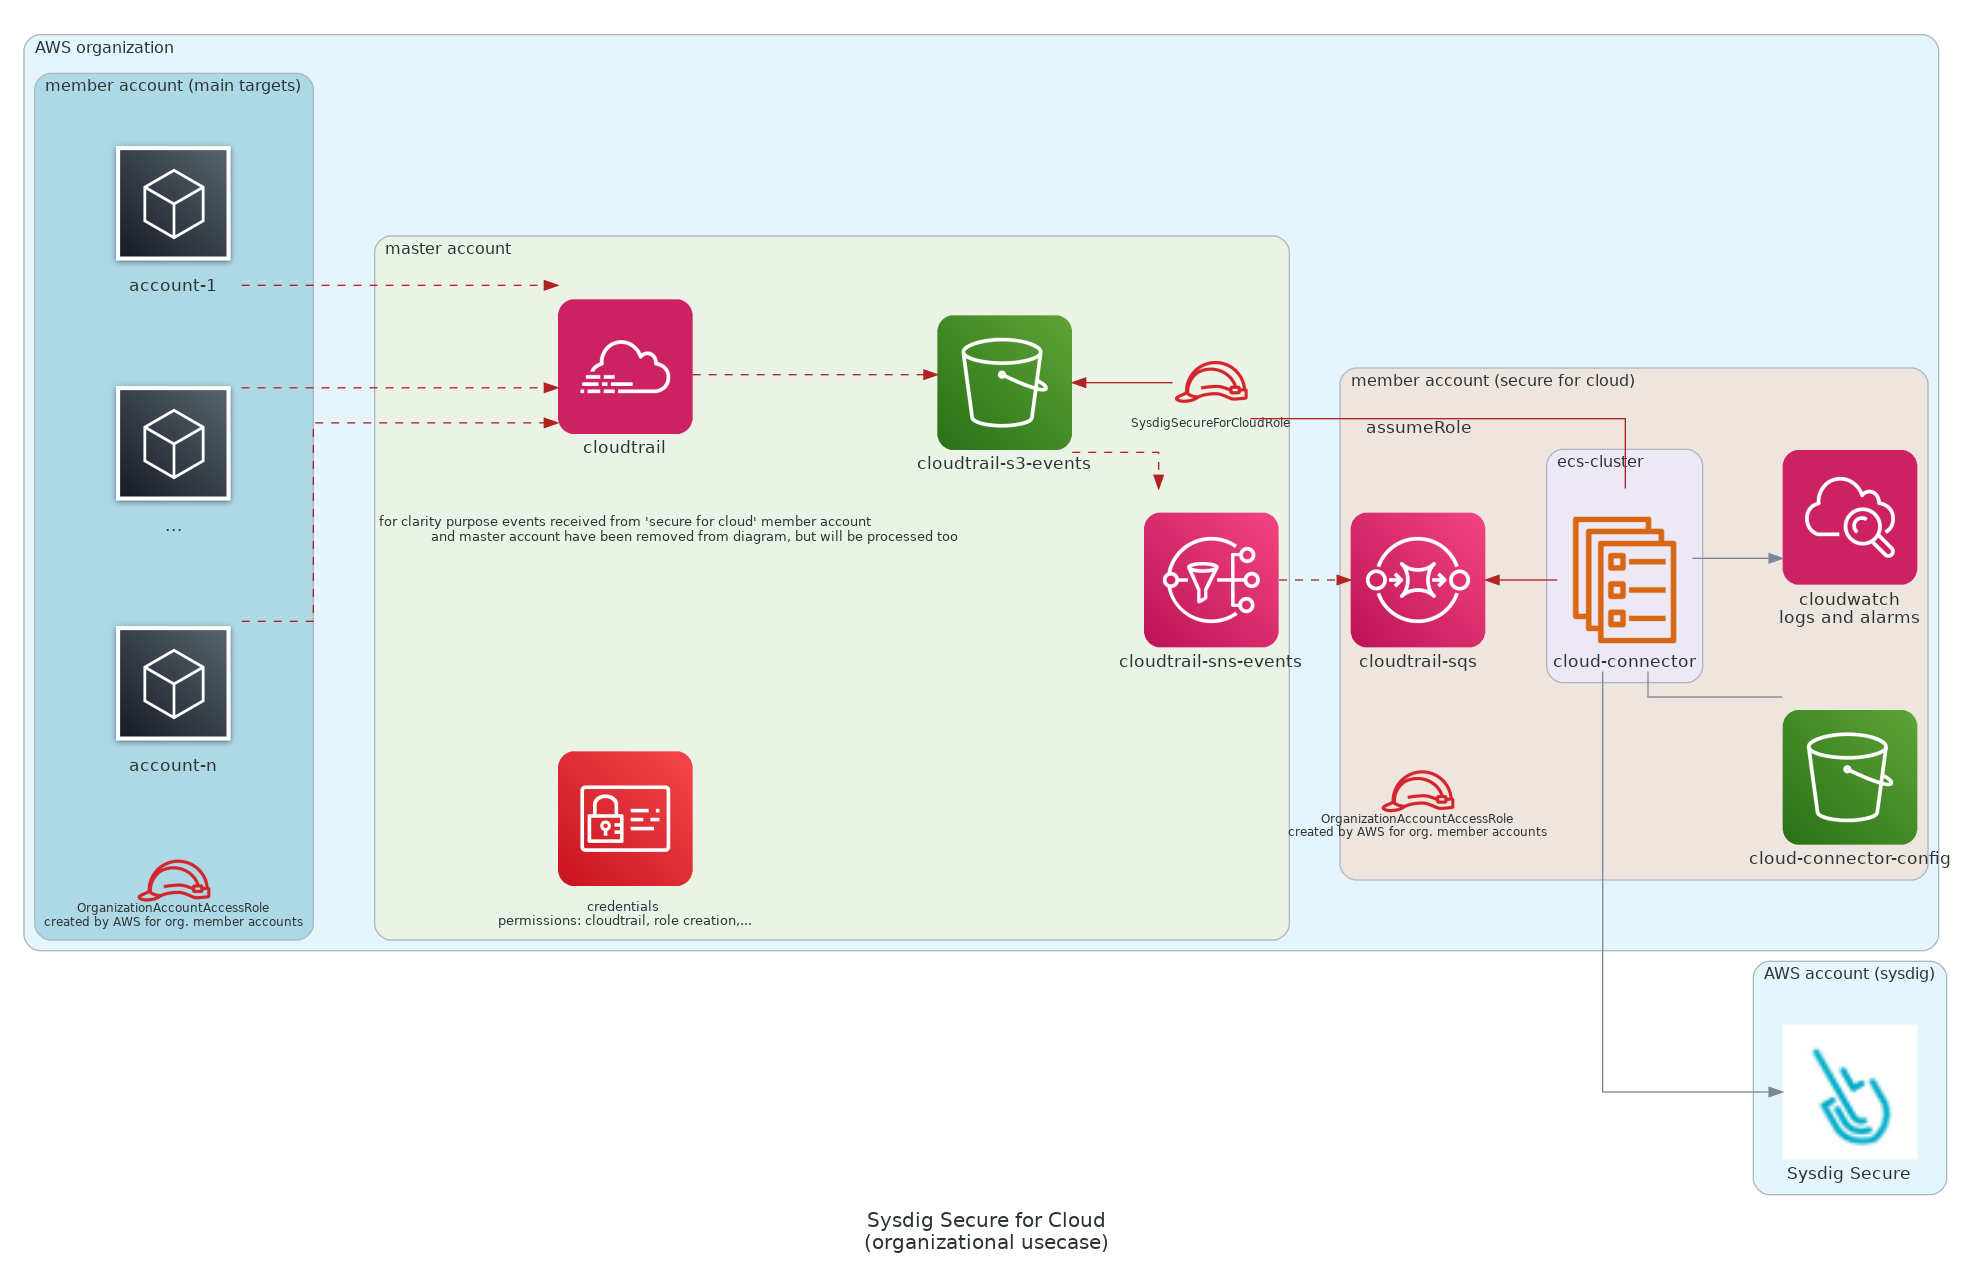
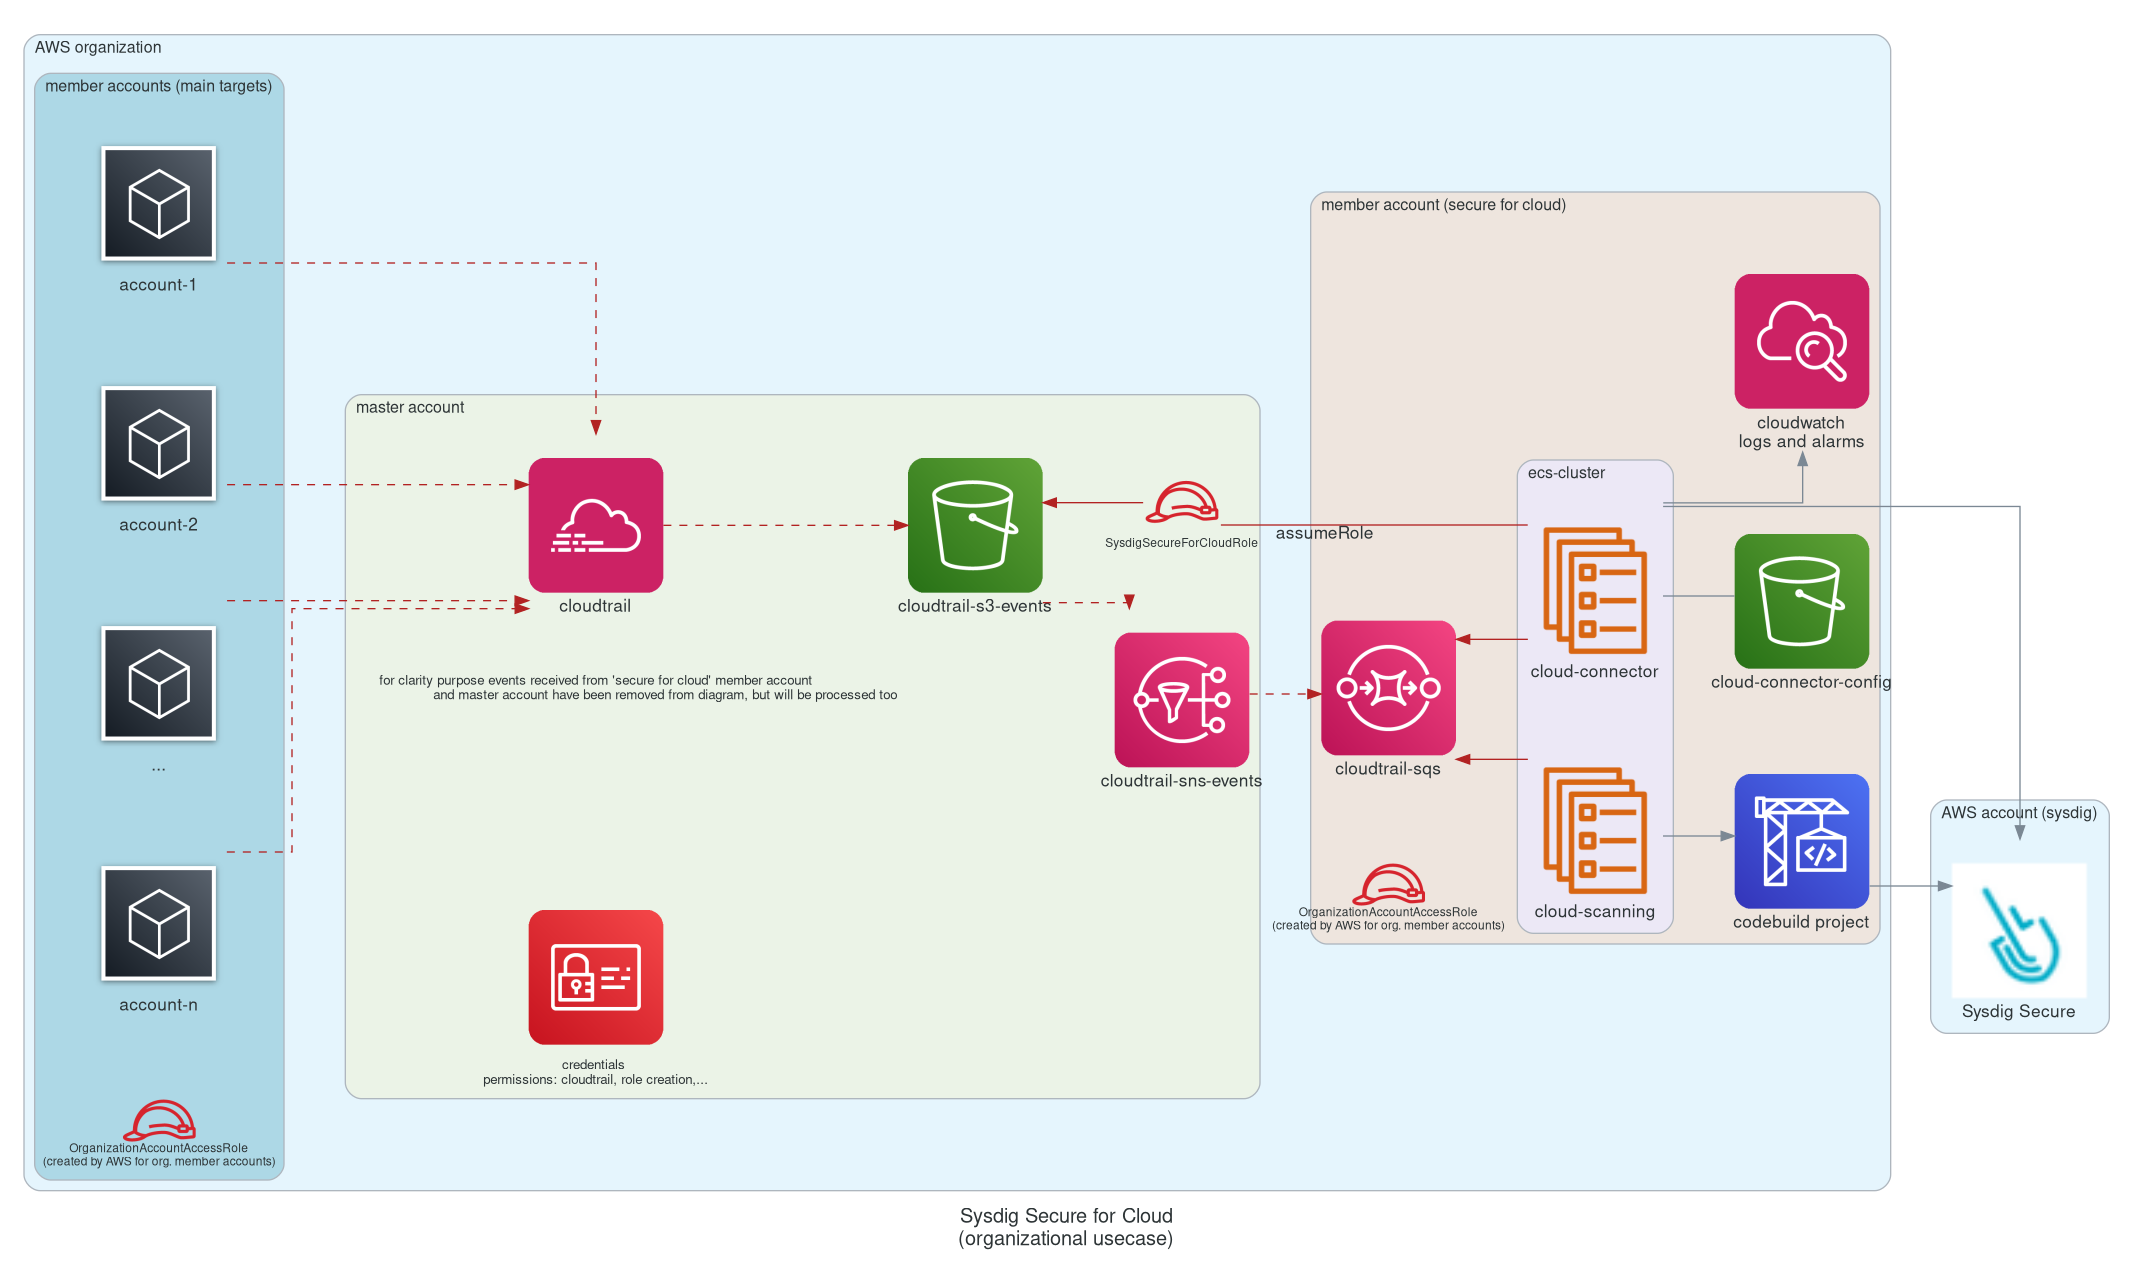
feat: Add organizational cloud-scanning (#20)
* feat: Add organizational cloud-scanning
* docs(organizational): Update documentation diagram

diff --git a/examples/organizational/diagram-org.py b/examples/organizational/diagram-org.py
@@ -1,15 +1,13 @@
 # diagrams as code vía https://diagrams.mingrammer.com
-from diagrams import Diagram, Cluster, Diagram, Edge, Node
-from diagrams.custom import Custom
-from diagrams.aws.general import General
-from diagrams.aws.management import Cloudtrail
-from diagrams.aws.storage import S3, SimpleStorageServiceS3Bucket
-from diagrams.aws.integration import SNS
-from diagrams.aws.integration import SQS
+from diagrams import Cluster, Diagram, Edge, Node
 from diagrams.aws.compute import ElasticContainerServiceService
-from diagrams.aws.security import IAMRole,IAM
-from diagrams.aws.management import Cloudwatch
-
+from diagrams.aws.devtools import Codebuild
+from diagrams.aws.general import General
+from diagrams.aws.integration import SNS, SQS
+from diagrams.aws.management import Cloudtrail, Cloudwatch
+from diagrams.aws.security import IAM, IAMRole
+from diagrams.aws.storage import S3
+from diagrams.custom import Custom
 
 diagram_attr = {
     "pad":"0.25"
@@ -23,14 +21,14 @@ role_attr = {
 
 event_color="firebrick"
 
-with Diagram("Sysdig Secure for Cloud{}(organizational usecase)".format("\n"), graph_attr=diagram_attr, filename="diagram-org", show=True):
+with Diagram("Sysdig Secure for Cloud\n(organizational usecase)", graph_attr=diagram_attr, filename="diagram-org", show=True):
 
     with Cluster("AWS organization"):
 
-        with Cluster("member account (main targets)", graph_attr={"bgcolor":"lightblue"}):
-            member_accounts = [General("account-1"),General("..."),General("account-n")]
+        with Cluster("member accounts (main targets)", graph_attr={"bgcolor":"lightblue"}):
+            member_accounts = [General("account-1"), General("account-2"), General("..."), General("account-n")]
 
-            org_member_role = IAMRole("OrganizationAccountAccessRole\ncreated by AWS for org. member accounts", **role_attr)
+            org_member_role = IAMRole("OrganizationAccountAccessRole\n(created by AWS for org. member accounts)", **role_attr)
 
 
         with Cluster("master account"):
@@ -53,18 +51,22 @@ with Diagram("Sysdig Secure for Cloud{}(organizational usecase)".format("\n"), g
 
         with Cluster("member account (secure for cloud)", graph_attr={"bgcolor":"seashell2"}):
 
-            org_member_role = IAMRole("OrganizationAccountAccessRole\ncreated by AWS for org. member accounts", **role_attr)
+            org_member_role = IAMRole("OrganizationAccountAccessRole\n(created by AWS for org. member accounts)", **role_attr)
 
             with Cluster("ecs-cluster"):
                 cloud_connector = ElasticContainerServiceService("cloud-connector")
+                cloud_scanning = ElasticContainerServiceService("cloud-scanning")
 
             sqs         = SQS("cloudtrail-sqs")
             s3_config   = S3("cloud-connector-config")
             cloudwatch  = Cloudwatch("cloudwatch\nlogs and alarms")
+            codebuild = Codebuild("codebuild project")
 
             sqs << Edge(color=event_color) << cloud_connector
+            sqs << Edge(color=event_color) << cloud_scanning
             cloud_connector - s3_config
             cloud_connector >> cloudwatch
+            cloud_scanning >> codebuild
 
 
         member_accounts >> Edge(color=event_color, style="dashed") >>  cloudtrail
@@ -76,3 +78,4 @@ with Diagram("Sysdig Secure for Cloud{}(organizational usecase)".format("\n"), g
         sds = Custom("Sysdig Secure", "../../resources/diag-sysdig-icon.png")
 
     cloud_connector >> sds
+    codebuild >> sds

diff --git a/modules/services/cloud-scanning/README.md b/modules/services/cloud-scanning/README.md
@@ -54,6 +54,7 @@ No modules.
 | [aws_iam_policy_document.task_definition_reader](https://registry.terraform.io/providers/hashicorp/aws/latest/docs/data-sources/iam_policy_document) | data source |
 | [aws_iam_policy_document.task_read_parameters](https://registry.terraform.io/providers/hashicorp/aws/latest/docs/data-sources/iam_policy_document) | data source |
 | [aws_iam_policy_document.trigger_scan](https://registry.terraform.io/providers/hashicorp/aws/latest/docs/data-sources/iam_policy_document) | data source |
+| [aws_iam_role.task_inherited](https://registry.terraform.io/providers/hashicorp/aws/latest/docs/data-sources/iam_role) | data source |
 | [aws_region.current](https://registry.terraform.io/providers/hashicorp/aws/latest/docs/data-sources/region) | data source |
 | [aws_ssm_parameter.sysdig_secure_api_token](https://registry.terraform.io/providers/hashicorp/aws/latest/docs/data-sources/ssm_parameter) | data source |
 
@@ -71,7 +72,10 @@ No modules.
 | <a name="input_cloudwatch_log_retention"></a> [cloudwatch\_log\_retention](#input\_cloudwatch\_log\_retention) | Days to keep logs for CloudScanning | `number` | `5` | no |
 | <a name="input_extra_env_vars"></a> [extra\_env\_vars](#input\_extra\_env\_vars) | Extra environment variables for the Cloud Scanning deployment | `map(string)` | `{}` | no |
 | <a name="input_image"></a> [image](#input\_image) | Image of the cloud scanning to deploy | `string` | `"quay.io/sysdig/cloud-scanning:latest"` | no |
+| <a name="input_is_organizational"></a> [is\_organizational](#input\_is\_organizational) | whether secure-for-cloud should be deployed in an organizational setup | `bool` | `false` | no |
 | <a name="input_name"></a> [name](#input\_name) | Name for the Cloud Scanning deployment | `string` | `"sysdig-secure-for-cloudscanning"` | no |
+| <a name="input_organizational_config"></a> [organizational\_config](#input\_organizational\_config) | organizational\_config. following attributes must be given<br><ul><br>    <li>`sysdig_secure_for_cloud_role_arn` for cloud-connector assumeRole in order to read cloudtrail s3 events</li><br>    <li>`scanning_ecs_task_role_name` which has been granted trusted-relationship over the secure\_for\_cloud\_role</li><br>    <li>`organizational_role_per_account` is the name of the organizational role deployed by AWS in each account of the organization</li><br></ul> | <pre>object({<br>    sysdig_secure_for_cloud_role_arn = string<br>    organizational_role_per_account  = string<br>    scanning_ecs_task_role_name      = string<br>  })</pre> | <pre>{<br>  "organizational_role_per_account": "",<br>  "scanning_ecs_task_role_name": "",<br>  "sysdig_secure_for_cloud_role_arn": ""<br>}</pre> | no |
+| <a name="input_scanning_ecs_task_role_name"></a> [scanning\_ecs\_task\_role\_name](#input\_scanning\_ecs\_task\_role\_name) | Default ecs cloudscanning task role name | `string` | `"scanning-ECSTaskRole"` | no |
 | <a name="input_sysdig_secure_endpoint"></a> [sysdig\_secure\_endpoint](#input\_sysdig\_secure\_endpoint) | Sysdig Secure API endpoint | `string` | `"https://secure.sysdig.com"` | no |
 | <a name="input_tags"></a> [tags](#input\_tags) | sysdig secure-for-cloud tags | `map(string)` | <pre>{<br>  "product": "sysdig-secure-for-cloud"<br>}</pre> | no |
 | <a name="input_verify_ssl"></a> [verify\_ssl](#input\_verify\_ssl) | true/false to determine ssl secure connection verification | `bool` | `true` | no |

diff --git a/modules/infrastructure/organizational/secure-for-cloud-role/README.md b/modules/infrastructure/organizational/secure-for-cloud-role/README.md
@@ -26,8 +26,10 @@ No modules.
 |------|------|
 | [aws_iam_role.secure_for_cloud_role](https://registry.terraform.io/providers/hashicorp/aws/latest/docs/resources/iam_role) | resource |
 | [aws_iam_role_policy.enable_assume_secure_for_cloud_role](https://registry.terraform.io/providers/hashicorp/aws/latest/docs/resources/iam_role_policy) | resource |
+| [aws_iam_role_policy.sysdig_secure_for_cloud_role_assume_role](https://registry.terraform.io/providers/hashicorp/aws/latest/docs/resources/iam_role_policy) | resource |
 | [aws_iam_role_policy.sysdig_secure_for_cloud_role_s3](https://registry.terraform.io/providers/hashicorp/aws/latest/docs/resources/iam_role_policy) | resource |
 | [aws_iam_policy_document.enable_assume_secure_for_cloud_role](https://registry.terraform.io/providers/hashicorp/aws/latest/docs/data-sources/iam_policy_document) | data source |
+| [aws_iam_policy_document.sysdig_secure_for_cloud_role_assume_role](https://registry.terraform.io/providers/hashicorp/aws/latest/docs/data-sources/iam_policy_document) | data source |
 | [aws_iam_policy_document.sysdig_secure_for_cloud_role_s3](https://registry.terraform.io/providers/hashicorp/aws/latest/docs/data-sources/iam_policy_document) | data source |
 | [aws_iam_policy_document.sysdig_secure_for_cloud_role_trusted](https://registry.terraform.io/providers/hashicorp/aws/latest/docs/data-sources/iam_policy_document) | data source |
 | [aws_iam_role.ecs_task_role](https://registry.terraform.io/providers/hashicorp/aws/latest/docs/data-sources/iam_role) | data source |
@@ -39,6 +41,7 @@ No modules.
 | <a name="input_cloudconnector_ecs_task_role_name"></a> [cloudconnector\_ecs\_task\_role\_name](#input\_cloudconnector\_ecs\_task\_role\_name) | cloudconnector ecs task role name | `string` | n/a | yes |
 | <a name="input_cloudtrail_s3_arn"></a> [cloudtrail\_s3\_arn](#input\_cloudtrail\_s3\_arn) | Cloudtrail S3 bucket ARN | `string` | n/a | yes |
 | <a name="input_name"></a> [name](#input\_name) | Name for the Cloud Connector deployment | `string` | `"sysdig-secure-for-cloud"` | no |
+| <a name="input_organizational_role_per_account"></a> [organizational\_role\_per\_account](#input\_organizational\_role\_per\_account) | Name of the organizational role deployed by AWS in each account of the organization | `string` | `"OrganizationAccountAccessRole"` | no |
 | <a name="input_tags"></a> [tags](#input\_tags) | sysdig secure-for-cloud tags | `map(string)` | <pre>{<br>  "product": "sysdig-secure-for-cloud"<br>}</pre> | no |
 
 ## Outputs

diff --git a/examples/organizational/README.md b/examples/organizational/README.md
@@ -76,7 +76,9 @@ Notice that:
 | Name | Source | Version |
 |------|--------|---------|
 | <a name="module_cloud_connector"></a> [cloud\_connector](#module\_cloud\_connector) | ../../modules/services/cloud-connector |  |
+| <a name="module_cloud_scanning"></a> [cloud\_scanning](#module\_cloud\_scanning) | ../../modules/services/cloud-scanning |  |
 | <a name="module_cloudtrail"></a> [cloudtrail](#module\_cloudtrail) | ../../modules/infrastructure/cloudtrail |  |
+| <a name="module_codebuild"></a> [codebuild](#module\_codebuild) | ../../modules/infrastructure/codebuild |  |
 | <a name="module_ecs_fargate_cluster"></a> [ecs\_fargate\_cluster](#module\_ecs\_fargate\_cluster) | ../../modules/infrastructure/ecs-fargate-cluster |  |
 | <a name="module_resource_group_master"></a> [resource\_group\_master](#module\_resource\_group\_master) | ../../modules/infrastructure/resource-group |  |
 | <a name="module_resource_group_secure_for_cloud_member"></a> [resource\_group\_secure\_for\_cloud\_member](#module\_resource\_group\_secure\_for\_cloud\_member) | ../../modules/infrastructure/resource-group |  |
